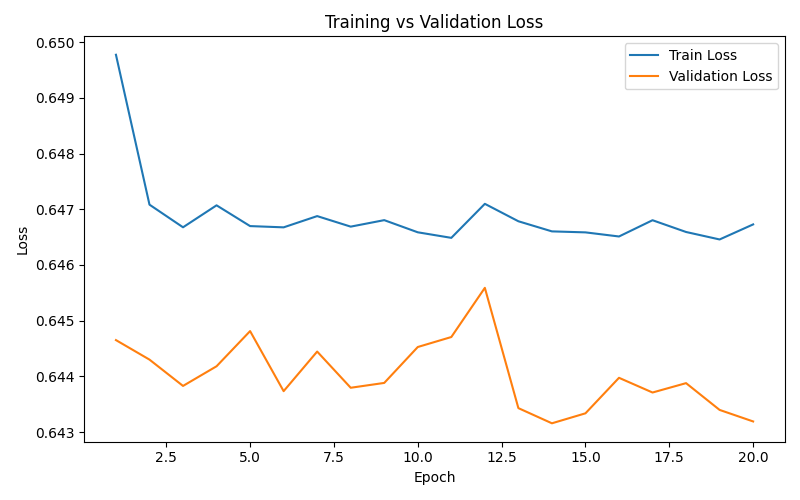
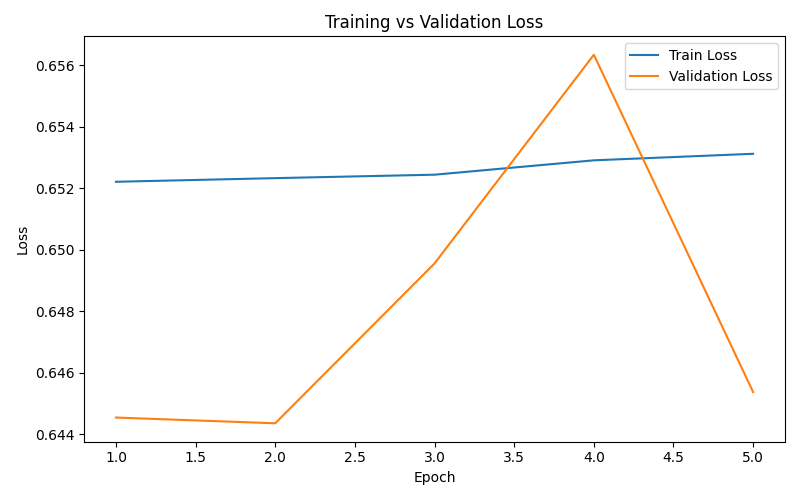
CLS TOKEN INSTEAD OF MEAN POOLING

diff --git a/src/model.py b/src/model.py
@@ -20,14 +20,16 @@ class DraftTransformer(nn.Module):
         self,
         num_champions: int,
         num_numeric_features: int,
-        embed_dim: int = 64,
+        embed_dim: int = 16,
         num_heads: int = 4,
         num_layers: int = 2,
-        ff_dim: int = 128,
+        ff_dim: int = 32,
         dropout: float = 0.1,
-        mlp_hidden_dim: int = 64,
+        mlp_hidden_dim: int = 16,
     ):
         super().__init__()
+
+        self.embed_dim = embed_dim
 
         self.champion_embedding = nn.Embedding(
             num_embeddings=num_champions,
@@ -43,6 +45,9 @@ class DraftTransformer(nn.Module):
             num_embeddings=5,
             embedding_dim=embed_dim,
         )
+
+        # learned CLS token
+        self.cls_token = nn.Parameter(torch.randn(1, 1, embed_dim))
 
         encoder_layer = nn.TransformerEncoderLayer(
             d_model=embed_dim,
@@ -79,10 +84,15 @@ class DraftTransformer(nn.Module):
         team_emb = self.team_embedding(team_ids)         # [B, 10, D]
         role_emb = self.role_embedding(role_ids)         # [B, 10, D]
 
-        x = champ_emb + team_emb + role_emb
-        x = self.encoder(x)
+        x = champ_emb + team_emb + role_emb              # [B, 10, D]
 
-        pooled = x.mean(dim=1)  # [B, D]
+        batch_size = x.size(0)
+        cls_tokens = self.cls_token.expand(batch_size, 1, self.embed_dim)  # [B, 1, D]
+        x = torch.cat([cls_tokens, x], dim=1)           # [B, 11, D]
+
+        x = self.encoder(x)                              # [B, 11, D]
+
+        pooled = x[:, 0, :]                              # CLS output, [B, D]
         combined = torch.cat([pooled, numeric_features], dim=1)  # [B, D + F]
         logits = self.head(combined).squeeze(-1)
 

diff --git a/scripts/train.py b/scripts/train.py
@@ -22,13 +22,13 @@ OUTPUT_DIR.mkdir(parents=True, exist_ok=True)
 # hyperparams
 BATCH_SIZE =16
 EMBED_DIM = 16
-NUM_HEADS = 2
-NUM_LAYERS = 1
+NUM_HEADS = 4
+NUM_LAYERS = 2
 FF_DIM = 32
 DROPOUT = 0.2
 MLP_HIDDEN_DIM = 32
-LEARNING_RATE = 0.001
-EPOCHS = 20
+LEARNING_RATE = 0.01
+EPOCHS = 5
 SEED = 42
 #test
 #TRAIN_SUBSET_ROWS = 240
